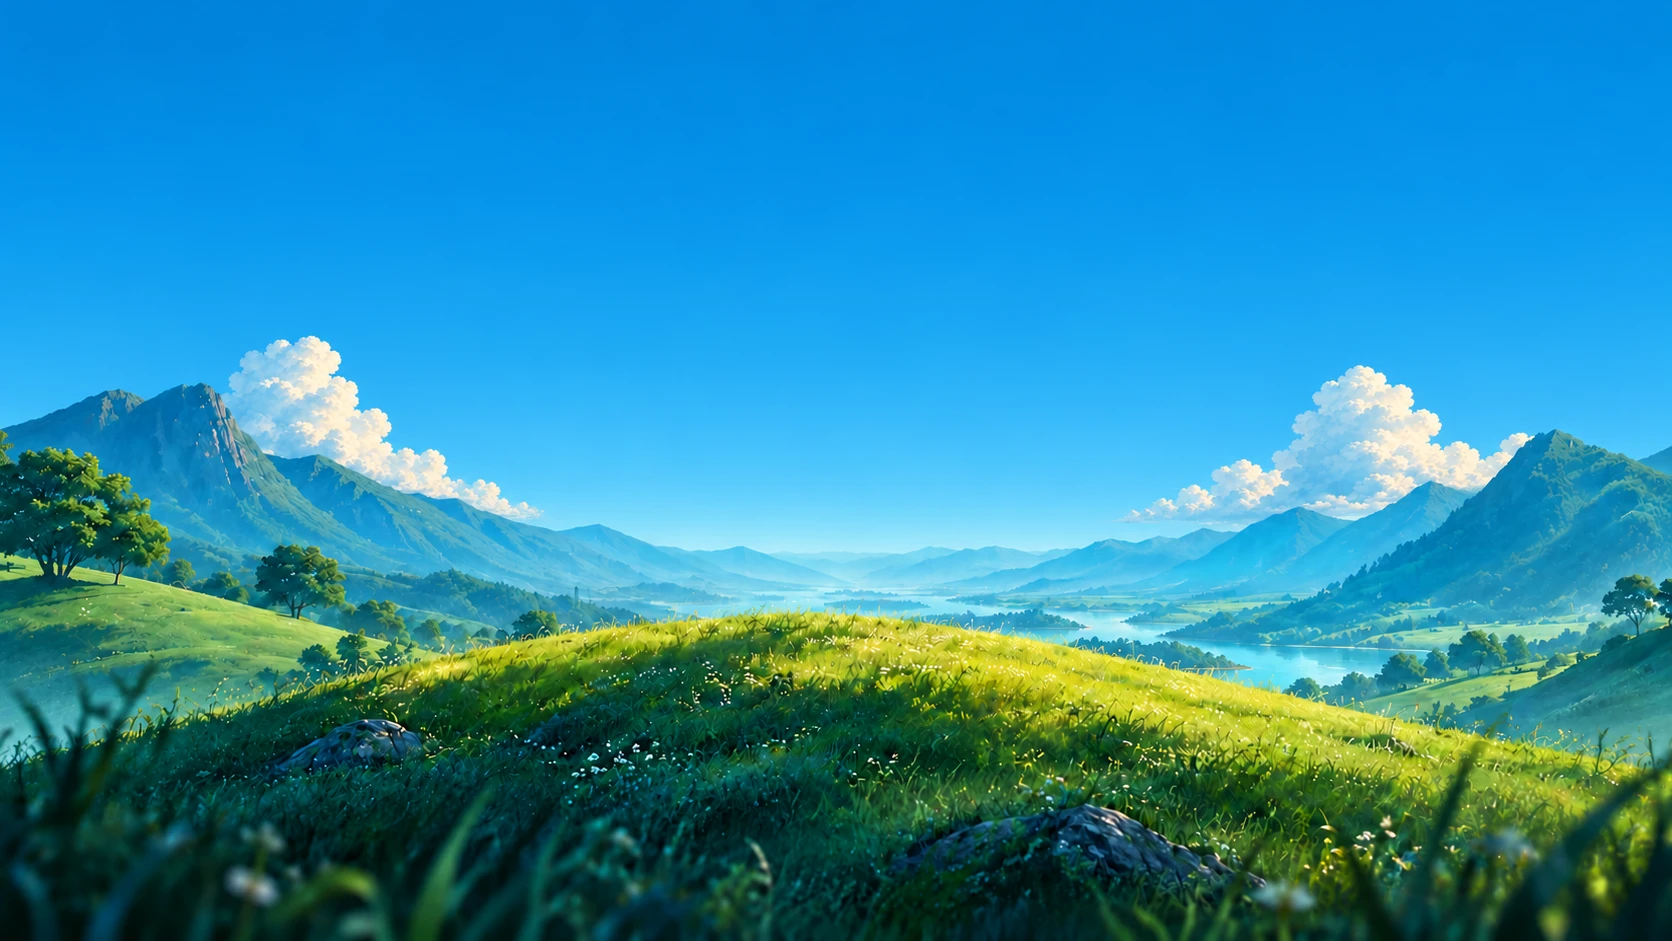
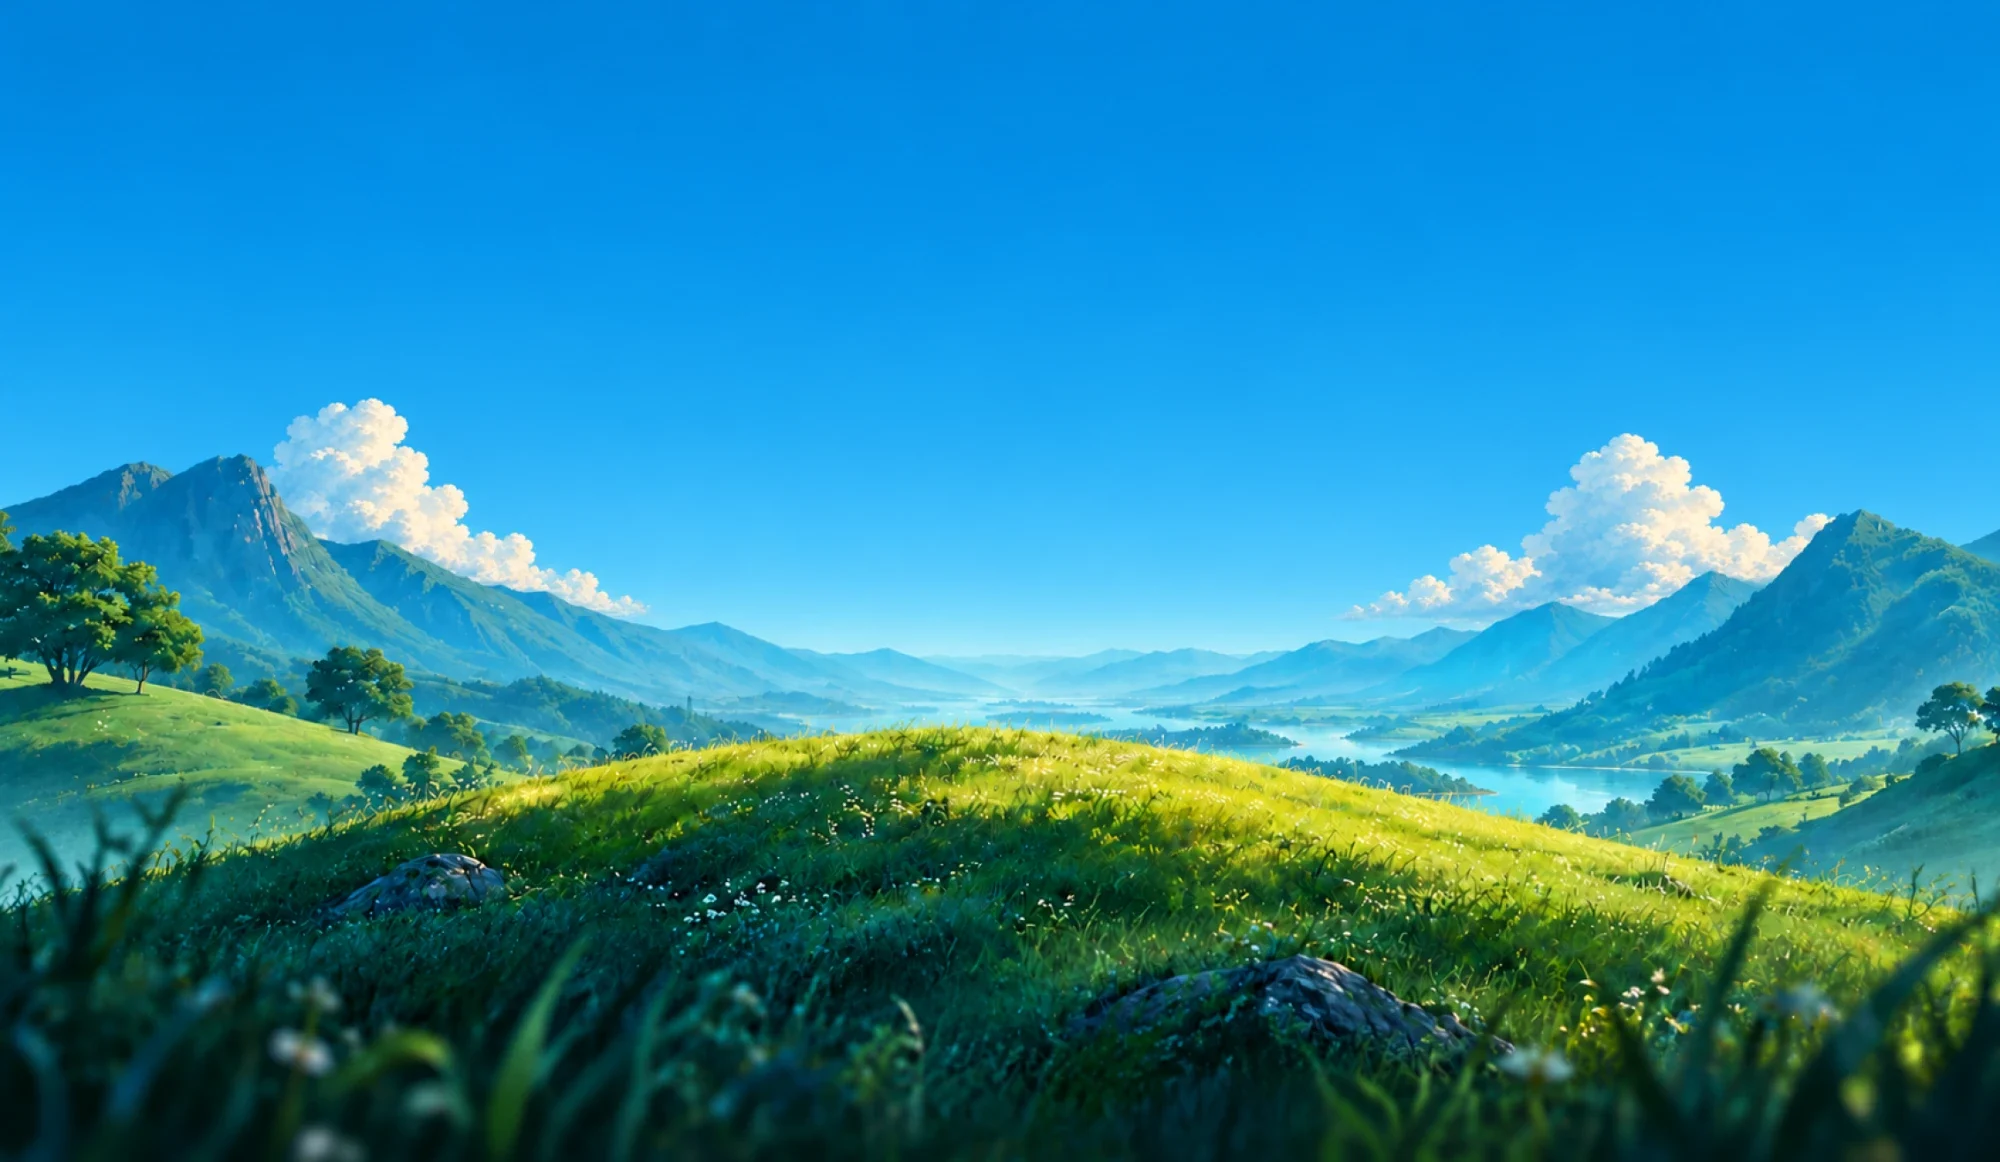
Hero: use the landscape from Figma Frame 118, placed exactly as in Figma
Claude-Session: https://claude.ai/code/session_016HASXCzEMbDYLj7uZ5jH3J

diff --git a/css/site.css b/css/site.css
@@ -557,7 +557,7 @@ img { display: block; }
    a blue fade behind the menu, a bigger title and a blue "Get for Mac" button. */
 .f118 .hero-card{height:auto;min-height:0;aspect-ratio:1408/1127;overflow:visible;background:#2f8fd6}
 .hero-bg{position:absolute;inset:0;z-index:-1;border-radius:16px;overflow:hidden;pointer-events:none}
-.f118 .hero-video{position:absolute;left:-22.16%;top:-6.08%;width:144.32%;height:110.51%;max-width:none;inset:auto;object-fit:cover;transform:none}
+.f118 .hero-video{position:absolute;left:-22.16%;top:-6.08%;width:144.32%;height:110.51%;max-width:none;inset:auto;object-fit:fill;transform:none}
 .f118 .hero-shade{background:linear-gradient(179.24deg,rgba(7,84,131,.285) .93%,rgba(51,51,51,0) 54.72%,rgba(102,102,102,.62) 110.36%)}
 .hero-topfade{position:absolute;left:0;right:0;top:0;height:calc(204px * var(--hero-k,1));background:linear-gradient(180deg,rgba(18,119,176,.8) 0%,rgba(39,141,189,.41) 50%,rgba(51,179,204,.04) 94%,rgba(51,179,204,0) 100%)}
 

diff --git a/index.html b/index.html
@@ -19,7 +19,7 @@
   <section class="hero hero--pill hero--fit f118" data-hero aria-label="Slimnote">
     <div class="hero-card">
       <div class="hero-bg" aria-hidden="true">
-        <img class="hero-video" src="assets/img/hero-landscape-2.webp" alt="" width="1672" height="941">
+        <img class="hero-video" src="assets/img/hero-landscape-2.webp" alt="" width="2000" height="1162">
         <div class="hero-shade"></div>
         <div class="hero-topfade"></div>
       </div>
